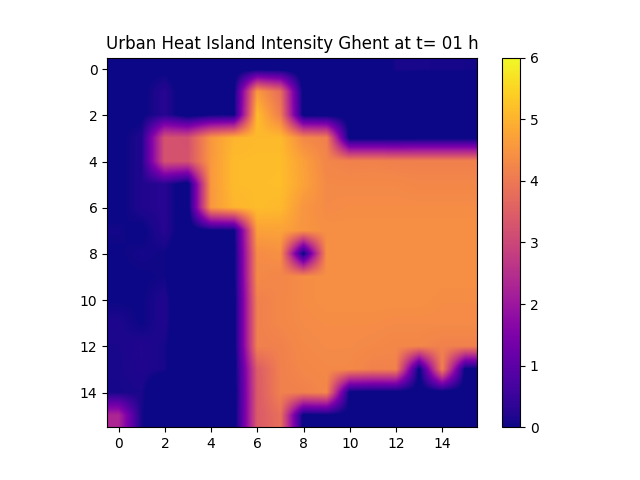
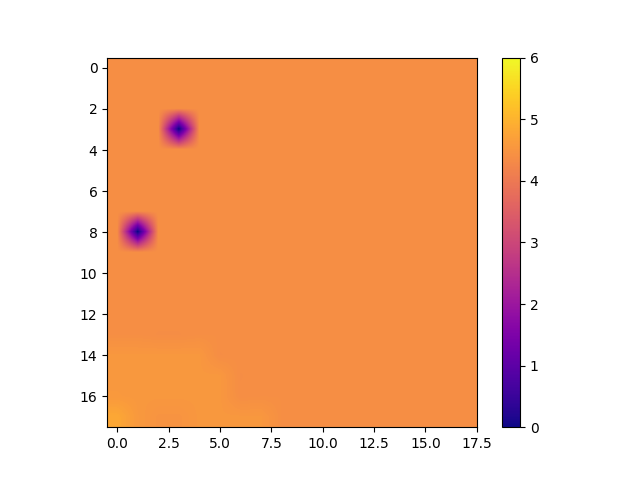
added an env.yml file

diff --git a/back_end/functions.py b/back_end/functions.py
@@ -294,12 +294,13 @@ def median_filter_custom(image, kernel_size):
 
 def run_module(image,scale):
     # takes in a PIL image and a scale (needs to be a an integer)
+    res = 18
     scale = int(scale)
     start_time = time.time()
     color_high_res = png_to_image(image)
     low_res = reduce_resolution(color_high_res, 320 , 320)
     new_=median_filter_custom(low_res, 6)
-    low_res = reduce_resolution(new_, 16 , 16)
+    low_res = reduce_resolution(new_, res , res)
     
     low_res_matrix = png_to_image2(low_res)
     
@@ -312,8 +313,8 @@ def run_module(image,scale):
     #cale = int(scale * 20)
     fracs = functions.count_value_in_kernel2(low_res_matrix, scale)
 
-    rows = 16
-    cols = 16
+    rows = res
+    cols = res
     
     
     current_directory = os.getcwd()

diff --git a/GUI/gui_utility.py b/GUI/gui_utility.py
@@ -152,7 +152,7 @@ class GUI_Main_Page:
 
         # Make a PDF File
         pdf_file_name = "Sample PDF.pdf"
-        pdf_texts = (self.pdf_texts_json['french'], self.pdf_texts_json['english'])
+        pdf_texts = (self.pdf_texts_json['french'], self.pdf_texts_json['english'], self.pdf_texts_json['dutch'])
         HD_Utility.create_pdf(("img_label.png", "Heatmap_processed.png"), pdf_texts, pdf_file_name)
 
         #################### Server Uploading ###################

diff --git a/read_text_file.py b/read_text_file.py
@@ -1,0 +1,13 @@
+# Specify the path to your text file
+file_path = 'env.yml'
+
+try:
+    # Open the file for reading
+    with open(file_path, 'r') as file:
+        # Read the entire contents of the file
+        file_contents = file.read()
+        # Print or process the contents as needed
+        print(file_contents)
+
+except FileNotFoundError:
+    print(f"File not found: {file_path}")

diff --git a/GUI/hd_utility.py b/GUI/hd_utility.py
@@ -155,7 +155,7 @@ class HD_Utility:
 
     def load_and_resize_image(path, size):
         img = Image.open(path)
-        img = img.resize(size, Image.ANTIALIAS)
+        img = img.resize(size) #, Image.ANTIALIAS)
         return img
 
     def create_concatenated_image(img1, img2, img3):
